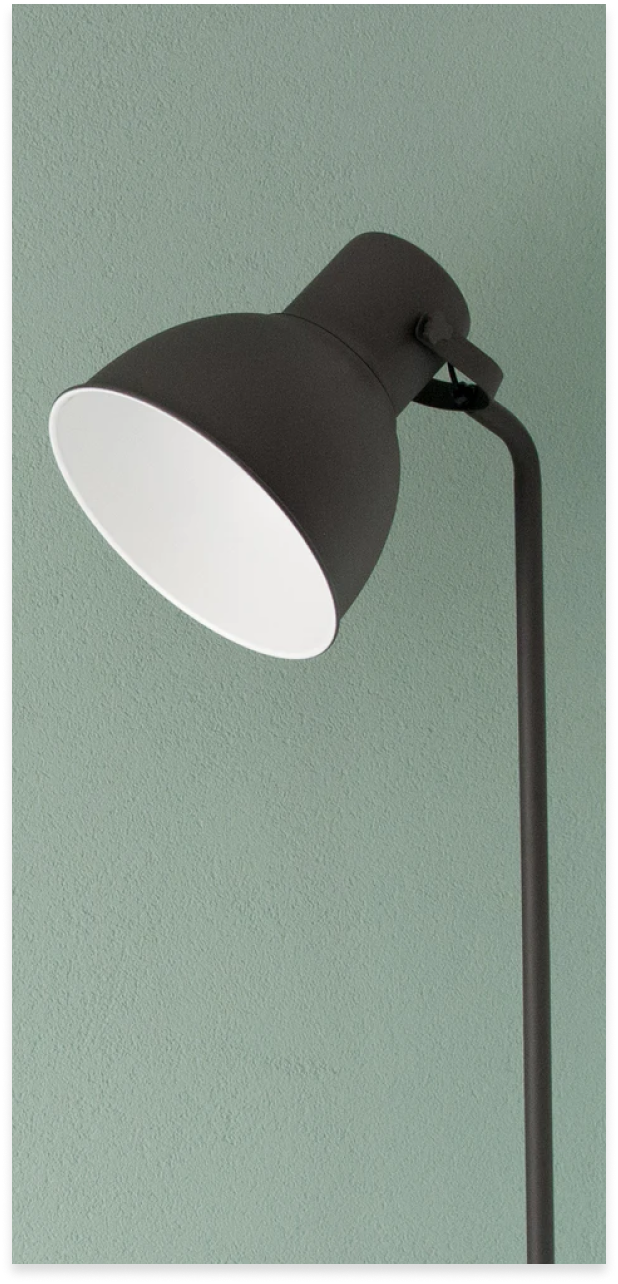
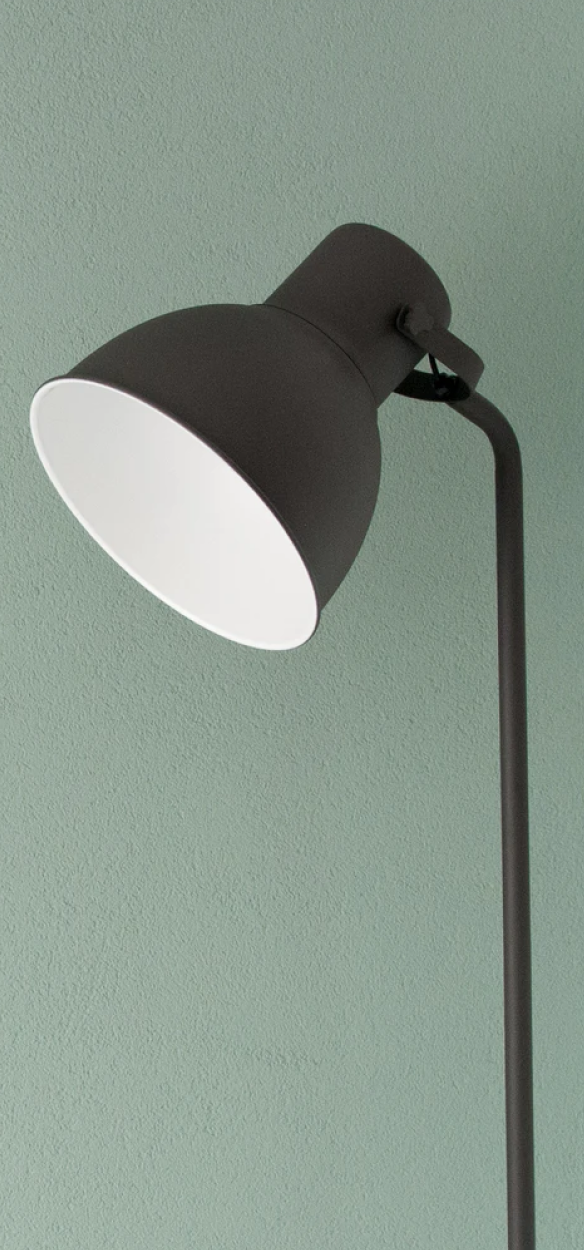
Feature added gallery

diff --git a/css/style.css b/css/style.css
@@ -1,3 +1,10 @@
+@import url("https://fonts.googleapis.com/css2?family=Montserrat:wght@600&display=swap");
+:root {
+  --color-gray-1: #E5E5E5;
+  --color-gray-2: #A9A9A9;
+  --color-gray-3-rgb: rgba(196,196,196,0.85);
+  --color-black: #4E5150; }
+
 *,
 *::before,
 *::after {
@@ -8,3 +15,85 @@
 html {
   font-size: 62.5%;
   box-sizing: border-box; }
+
+.wrapper {
+  max-width: 120rem;
+  margin: 0 auto; }
+
+.heading-1, .heading-2, .profile__stats-value, .profile__stats-description {
+  font-family: "Montserrat", sans-serif;
+  font-weight: 600; }
+
+.heading-1 {
+  font-size: 2.4rem;
+  color: var(--color-black); }
+
+.heading-2 {
+  font-size: 1.4rem;
+  color: var(--color-gray-2); }
+
+.u-mb-xsmall {
+  margin-bottom: 1rem; }
+
+.u-mb-small {
+  margin-bottom: 2rem; }
+
+.profile {
+  padding: 1.5rem;
+  width: 50%;
+  margin: 0 auto;
+  display: flex;
+  flex-direction: column;
+  align-items: center; }
+  .profile__img {
+    width: 10rem;
+    height: 10rem;
+    border-radius: 4rem; }
+  .profile__stats {
+    display: flex; }
+    .profile__stats-box {
+      height: 7rem;
+      width: 12rem;
+      padding: 2.5rem 4rem;
+      background-color: var(--color-gray-1);
+      border-radius: 2rem;
+      color: var(--color-black);
+      display: flex;
+      flex-direction: column;
+      align-items: center;
+      justify-content: center; }
+      .profile__stats-box:not(:last-child) {
+        margin-right: 2rem; }
+    .profile__stats-value {
+      font-size: 1.8rem; }
+    .profile__stats-description {
+      font-size: 1.4rem; }
+
+.gallery {
+  display: grid;
+  grid-template-columns: repeat(3, 1fr);
+  grid-template-rows: repeat(3, 1fr);
+  gap: 2rem; }
+  .gallery__box {
+    border-radius: 3rem;
+    overflow: hidden; }
+    .gallery__box--2 {
+      grid-column: 2 / -1;
+      grid-row: 1 / 2; }
+    .gallery__box--3 {
+      grid-column: 1 / 3;
+      grid-row: 2 / 3; }
+    .gallery__box--4 {
+      grid-column: 3 / -1;
+      grid-row: 2 / -1; }
+    .gallery__box--5 {
+      grid-column: 1 / 2;
+      grid-row: 3 / -1; }
+    .gallery__box--6 {
+      grid-column: 2 / 3;
+      grid-row: 3 / -1; }
+  .gallery__img {
+    width: 100%;
+    height: 100%;
+    object-fit: cover;
+    display: block; }

diff --git a/index.html b/index.html
@@ -10,10 +10,52 @@
 
     <link rel="icon" href="devchallenges.png" />
 
+    <link rel="stylesheet" href="css/style.css">
+
     <title>My gallery</title>
 
   </head>
   <body>
-
+    <div class="wrapper">
+      <div class="profile">
+        <img src="img/profilePhoto.png" alt="Profile photo" class="profile__img u-mb-small">
+        <h1 class="heading-1 u-mb-xsmall">Rodney Cotton</h1>
+        <h2 class="heading-2 u-mb-small">Helsinki, finland</h2>
+        <div class="profile__stats">
+          <div class="profile__stats-box">
+            <span class="profile__stats-value">100</span>
+            <span class="profile__stats-description">Posts</span>
+          </div>
+          <div class="profile__stats-box">
+            <span class="profile__stats-value">2,242</span>
+            <span class="profile__stats-description">Follower</span>
+          </div>
+          <div class="profile__stats-box">
+            <span class="profile__stats-value">1,432</span>
+            <span class="profile__stats-description">Following</span>
+          </div>
+        </div>
+      </div>
+      <div class="gallery">
+        <figure class="gallery__box gallery__box--1">
+          <img class="gallery__img" src="img/photo1.png" alt="Photo galley 1">
+        </figure>
+        <figure class="gallery__box gallery__box--2">
+          <img class="gallery__img" src="img/photo2.png" alt="Photo galley 2">
+        </figure>
+        <figure class="gallery__box gallery__box--3">
+          <img class="gallery__img" src="img/photo3.png" alt="Photo galley 3">
+        </figure>
+        <figure class="gallery__box gallery__box--4">
+          <img class="gallery__img" src="img/photo4.png" alt="Photo galley 4">
+        </figure>
+        <figure class="gallery__box gallery__box--5">
+          <img class="gallery__img" src="img/photo5.png" alt="Photo galley 5">
+        </figure>
+        <figure class="gallery__box gallery__box--6">
+          <img class="gallery__img" src="img/photo6.png" alt="Photo galley 6">
+        </figure>
+      </div>
+    </div>
   </body>
 </html>

diff --git a/sass/_components.scss b/sass/_components.scss
@@ -1,0 +1,90 @@
+.profile {
+    padding: 1.5rem;
+    width: 50%;
+    margin: 0 auto;
+
+    display: flex;
+    flex-direction: column;
+    align-items: center;
+
+    &__img {
+        width: 10rem;
+        height: 10rem;
+        border-radius: 4rem;
+    }
+
+    &__stats {
+        display: flex;
+
+        &-box {
+            &:not(:last-child) {
+                margin-right: 2rem;
+            }
+            height: 7rem;
+            width: 12rem;
+            padding: 2.5rem 4rem;
+            background-color: var(--color-gray-1);
+            border-radius: 2rem;
+            color: var(--color-black);
+
+            display: flex;
+            flex-direction: column;
+            align-items: center;
+            justify-content: center;
+        }
+
+        &-value {
+            @extend %montserrat-600;
+            font-size: 1.8rem;
+        }
+
+        &-description {
+            @extend %montserrat-600;
+            font-size: 1.4rem;
+        }
+    }
+}
+
+.gallery {
+    display: grid;
+    grid-template-columns: repeat(3, 1fr);
+    grid-template-rows: repeat(3, 1fr);
+    gap: 2rem;
+
+    &__box {
+        border-radius: 3rem;
+        overflow: hidden;
+
+        &--2 {
+            grid-column: 2 / -1;
+            grid-row: 1 / 2;
+        }
+
+        &--3 {
+            grid-column: 1 / 3;
+            grid-row: 2 / 3;
+        }
+
+        &--4 {
+            grid-column: 3 / -1;
+            grid-row: 2 / -1;
+        }
+
+        &--5 {
+            grid-column: 1 / 2;
+            grid-row: 3 / -1;
+        }
+
+        &--6 {
+            grid-column: 2 / 3;
+            grid-row: 3 / -1;
+        }
+    }
+    
+    &__img {
+        width: 100%;
+        height: 100%;
+        object-fit: cover;
+        display: block;
+    }
+}

diff --git a/sass/_base.scss b/sass/_base.scss
@@ -1,6 +1,10 @@
+@import url('https://fonts.googleapis.com/css2?family=Montserrat:wght@600&display=swap');
 
 :root {
-    
+    --color-gray-1: #E5E5E5;
+    --color-gray-2: #A9A9A9;
+    --color-gray-3-rgb: rgba(196,196,196,0.85);
+    --color-black: #4E5150;
 }
 
 *,
@@ -14,4 +18,9 @@
 html {
     font-size: 62.5%;
     box-sizing: border-box;
+}
+
+.wrapper {
+    max-width: 120rem;
+    margin: 0 auto;
 }

diff --git a/sass/_typography.scss b/sass/_typography.scss
@@ -1,0 +1,16 @@
+%montserrat-600 {
+    font-family: "Montserrat", sans-serif;
+    font-weight: 600;
+}
+
+.heading-1 {
+    @extend %montserrat-600;
+    font-size: 2.4rem;
+    color: var(--color-black);
+}
+
+.heading-2 {
+    @extend %montserrat-600;
+    font-size: 1.4rem;
+    color: var(--color-gray-2);
+}

diff --git a/sass/_utilities.scss b/sass/_utilities.scss
@@ -1,0 +1,2 @@
+.u-mb-xsmall { margin-bottom: 1rem; }
+.u-mb-small { margin-bottom: 2rem; }
